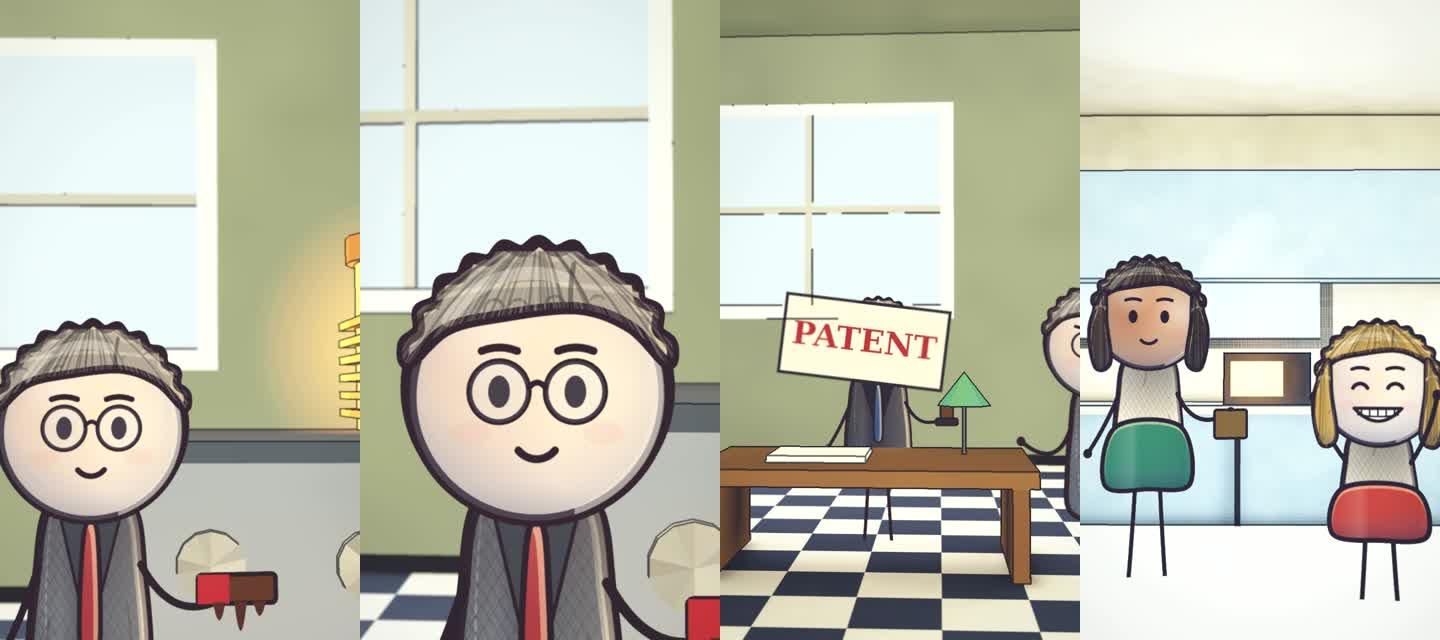
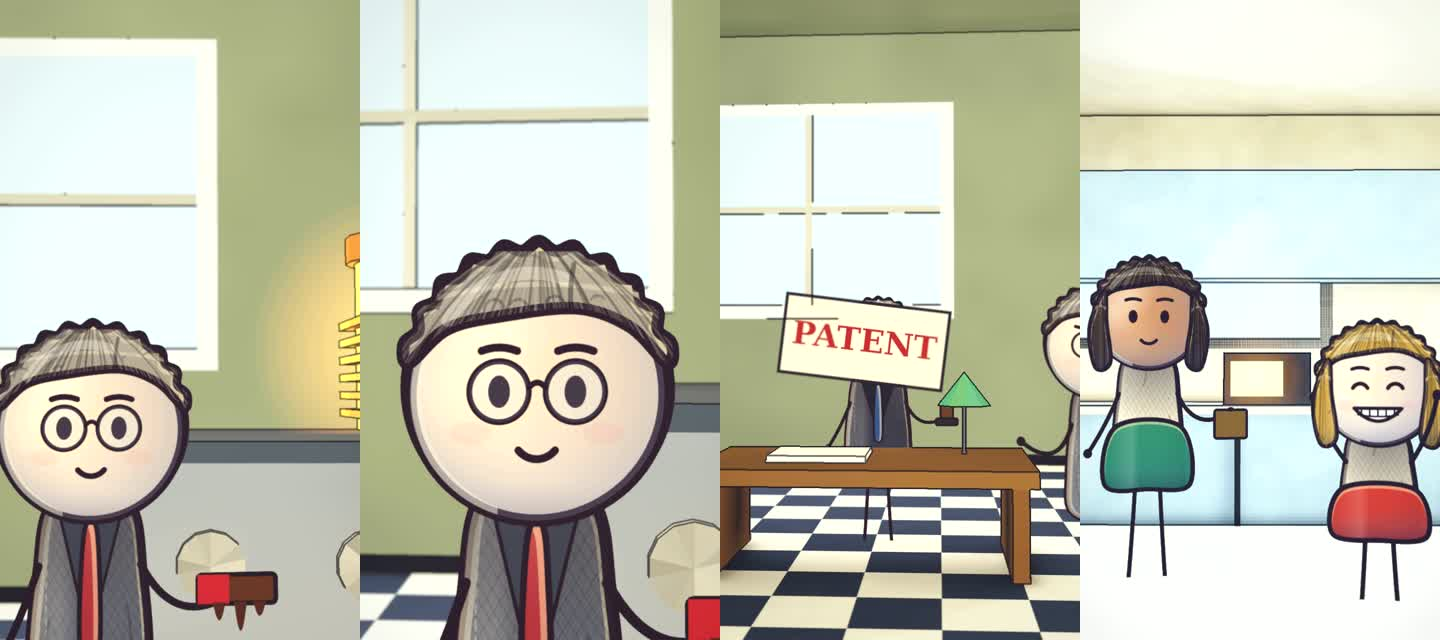
Microwave remake: soft face light moved to the left, stronger colour contrast
Claude-Session: https://claude.ai/code/session_01Q4bYRoWeHLz4Sfdu9inVyj

diff --git a/rig/bean2.js b/rig/bean2.js
@@ -110,8 +110,8 @@ export function drawBean(g, sp, pose, opt = {}) {
   const bb = { x: hip[0] - bw * 1.1, y: hip[1] - bodyH * 1.05, w: bw * 2.2, h: bodyH * 1.1 };
   fillLit(g, body, C.coat, sun, bb);
   fabric(g, body, bb, C.coat);
-  { g.save(); g.clip(body); g.translate(-7, 0); g.beginPath(); g.rect(bb.x + bb.w * 0.6, bb.y, bb.w, bb.h); g.clip(); g.lineWidth = 12; g.strokeStyle = "rgba(255,246,228,0.45)"; g.stroke(body);
-    const rg2 = g.createLinearGradient(bb.x + bb.w, 0, bb.x + bb.w * 0.55, 0); rg2.addColorStop(0, "rgba(255,244,222,0.22)"); rg2.addColorStop(1, "rgba(255,244,222,0)"); g.fillStyle = rg2; g.fillRect(bb.x, bb.y, bb.w + 20, bb.h); g.restore(); }
+  { g.save(); g.clip(body); g.translate(7, 0); g.beginPath(); g.rect(bb.x - bb.w * 0.6, bb.y, bb.w, bb.h); g.clip(); g.lineWidth = 12; g.strokeStyle = "rgba(255,246,228,0.45)"; g.stroke(body);
+    const rg2 = g.createLinearGradient(bb.x, 0, bb.x + bb.w * 0.45, 0); rg2.addColorStop(0, "rgba(255,244,222,0.22)"); rg2.addColorStop(1, "rgba(255,244,222,0)"); g.fillStyle = rg2; g.fillRect(bb.x - 20, bb.y, bb.w + 20, bb.h); g.restore(); }
   { g.save(); g.clip(body); const hc0 = at(side ? 10 : 0, bodyH * 0.92 + headR * 0.78), ao = g.createRadialGradient(hc0[0] + 10, hc0[1] + headR * 0.7, headR * 0.3, hc0[0] + 10, hc0[1] + headR * 0.7, headR * 1.3); ao.addColorStop(0, "rgba(20,16,30,0.38)"); ao.addColorStop(1, "rgba(20,16,30,0)"); g.fillStyle = ao; g.fillRect(bb.x - 50, bb.y - 50, bb.w + 100, bb.h + 100); g.restore(); }
   if (sp.dress) { const sk = smooth([at(-bw * 1.25, 0), at(-bw * 0.95, bodyH * 0.42), at(bw * 0.95, bodyH * 0.42), at(bw * 1.25, 0), at(0, -12)]); fillLit(g, sk, C.dress, sun, bb, { ol: 8 }); }
   // coat details
@@ -143,14 +143,14 @@ function drawHead(g, sp, c, r, sun, side, pose, opt) {
   if (sp.hair && !side) { const hb = ellP(x, y - r * 0.06, r * 1.03, r * 1.0); fillLit(g, hb, C.hair, sun, { x: x - r, y: y - r, w: 2 * r, h: 2 * r }, { ol: 9 }); hairStrands(g, hb, { x: x - r * 1.05, y: y - r * 1.06, w: r * 2.1, h: r * 2.0 }, C.hair); }
   const fp = side ? smooth([[x - r * 0.98, y], [x - r * 0.7, y - r * 0.72], [x, y - r * 1.0], [x + r * 0.78, y - r * 0.68], [x + r * 1.02, y + r * 0.02], [x + r * 0.76, y + r * 0.7], [x, y + r * 0.98], [x - r * 0.72, y + r * 0.7]]) : ellP(x, y, r, r * 0.97);
   fillLit(g, fp, face, { a: sun.a, k: sun.k * 0.55, shaft: sun.shaft }, { x: x - r, y: y - r, w: 2 * r, h: 2 * r }, { ol: 9, sheen: false });
-  { // premium soft key light on the right side of the face (picture right)
+  { // premium soft key light on the left side of the face (picture left)
     g.save(); g.clip(fp);
-    const kx = x + r * 0.62, ky = y - r * 0.1, kl = g.createRadialGradient(kx, ky, r * 0.05, kx, ky, r * 1.0);
+    const kx = x - r * 0.62, ky = y - r * 0.1, kl = g.createRadialGradient(kx, ky, r * 0.05, kx, ky, r * 1.0);
     kl.addColorStop(0, "rgba(255,246,228,0.55)"); kl.addColorStop(0.45, "rgba(255,240,215,0.22)"); kl.addColorStop(1, "rgba(255,240,215,0)");
     g.fillStyle = kl; g.fillRect(x - r, y - r, 2 * r, 2 * r);
-    const sh = g.createLinearGradient(x + r * 0.2, 0, x - r, 0); sh.addColorStop(0, "rgba(40,30,60,0)"); sh.addColorStop(1, "rgba(40,30,60,0.14)");
+    const sh = g.createLinearGradient(x - r * 0.2, 0, x + r, 0); sh.addColorStop(0, "rgba(40,30,60,0)"); sh.addColorStop(1, "rgba(40,30,60,0.14)");
     g.fillStyle = sh; g.fillRect(x - r, y - r, 2 * r, 2 * r);
-    g.translate(-6, 0); g.lineWidth = 10; g.strokeStyle = "rgba(255,248,232,0.55)"; g.save(); g.beginPath(); g.rect(x + r * 0.35, y - r, r, 2 * r); g.clip(); g.stroke(fp); g.restore();
+    g.translate(6, 0); g.lineWidth = 10; g.strokeStyle = "rgba(255,248,232,0.55)"; g.save(); g.beginPath(); g.rect(x - r * 1.35, y - r, r, 2 * r); g.clip(); g.stroke(fp); g.restore();
     g.restore();
   }
   g.save(); g.clip(fp); const sp0 = g.createRadialGradient(x - r * 0.35, y - r * 0.45, 2, x - r * 0.35, y - r * 0.45, r * 0.45); sp0.addColorStop(0, "rgba(255,255,255,0.35)"); sp0.addColorStop(1, "rgba(255,255,255,0)"); g.fillStyle = sp0; g.fillRect(x - r, y - r, 2 * r, 2 * r); g.restore();
